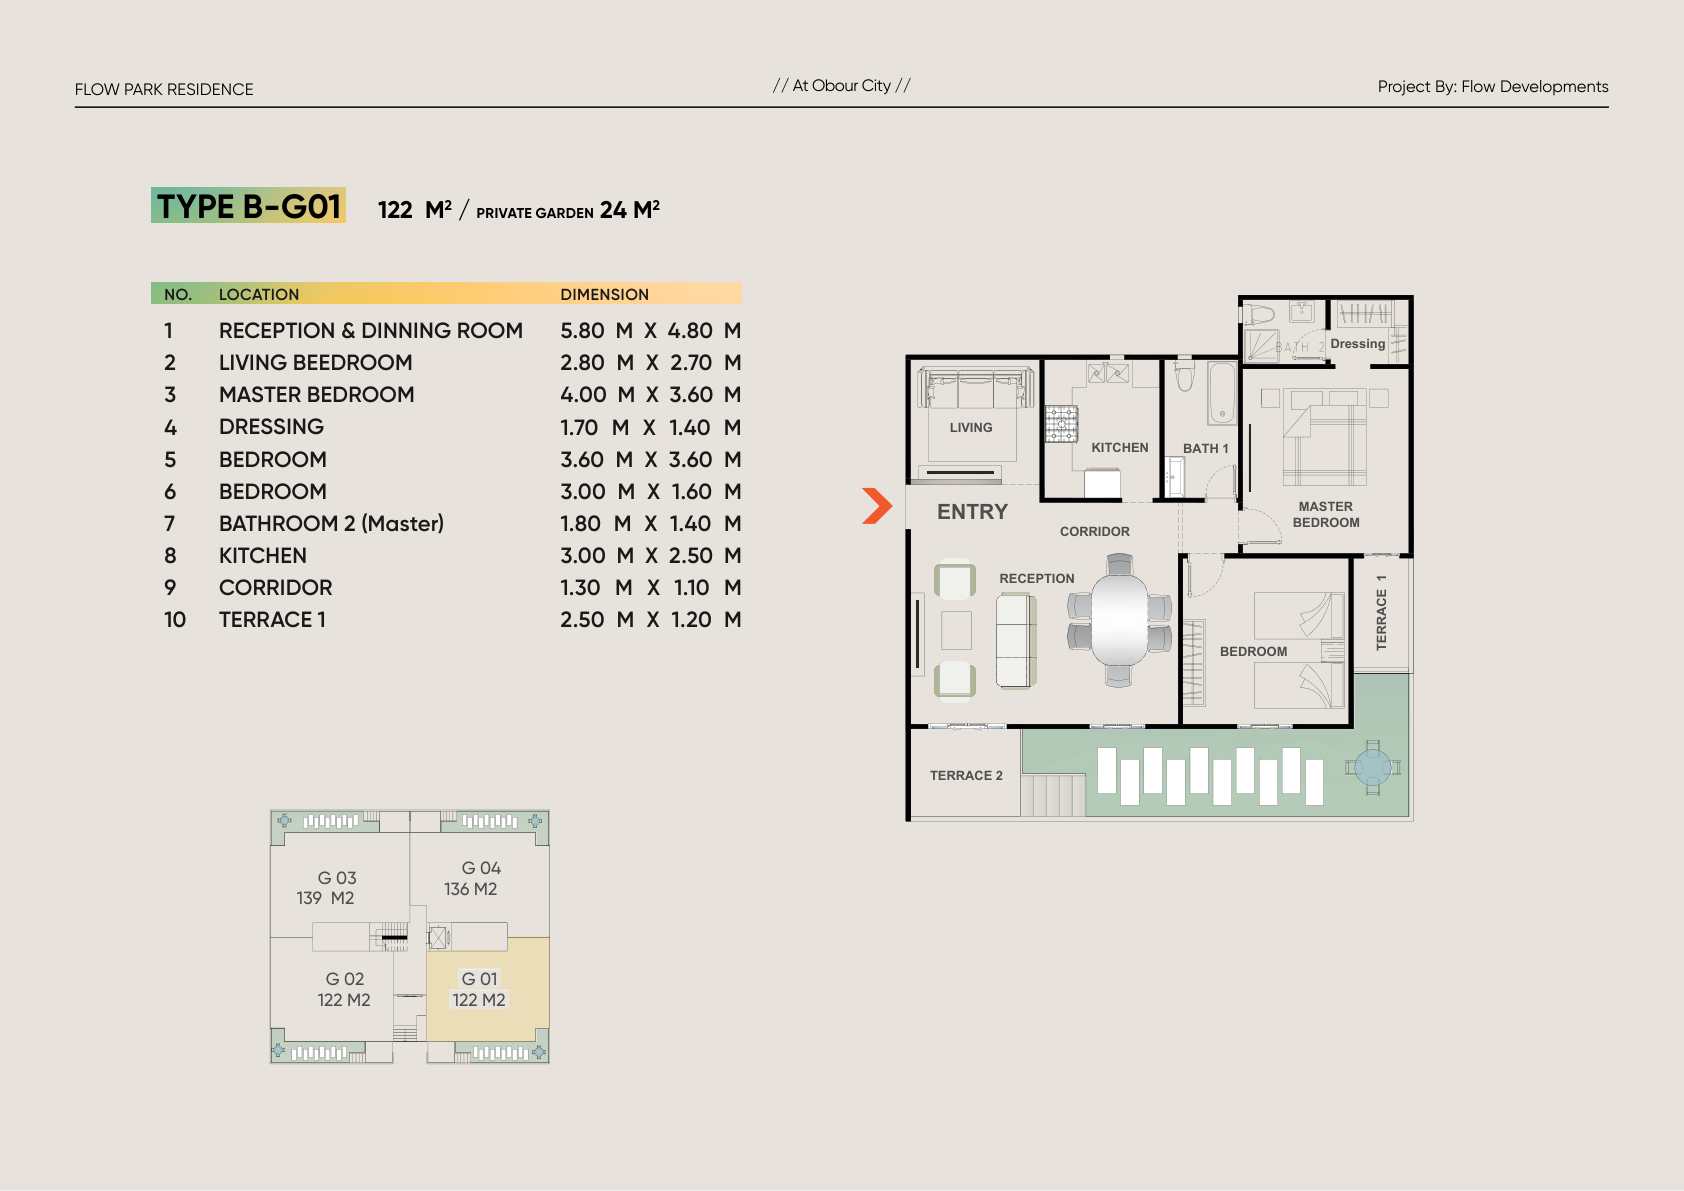
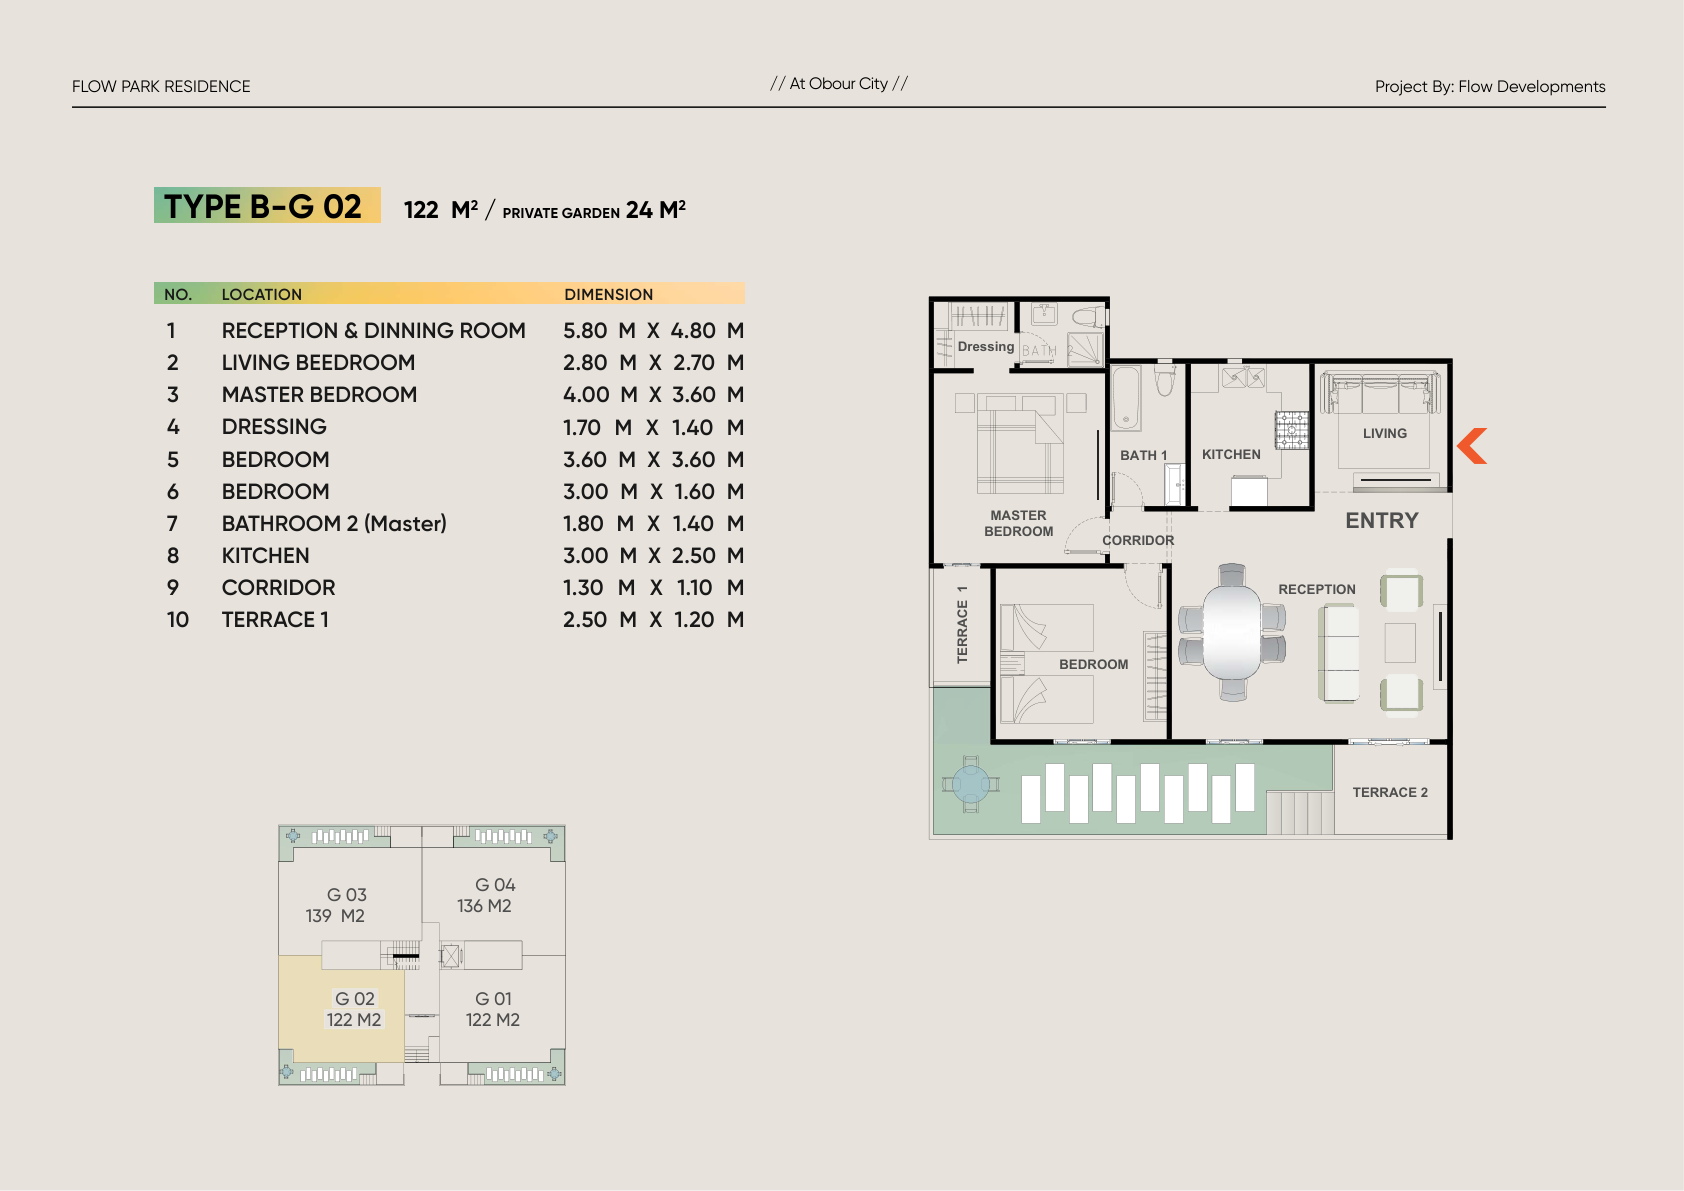
phase 2  units edit

diff --git a/Brochure-3/index.html b/Brochure-3/index.html
@@ -2688,8 +2688,9 @@
         style="display:none;">
     </div>
     <div class="nav-center">
-      <a href="tel:17639" class="nav-hotline"><img src="publication-web-resources/image/flow logos/SVG/shortnmber with email.png"
-          alt="17639" class="nav-hotline-svg"></a>
+      <a href="tel:17639" class="nav-hotline"><img
+          src="publication-web-resources/image/flow logos/SVG/shortnmber with email.png" alt="17639"
+          class="nav-hotline-svg"></a>
       <div class="menu-btn" onclick="toggleMenu()">
         <div class="hamburger">
           <span></span><span></span><span></span>
@@ -3593,7 +3594,7 @@
         "hero": "publication-web-resources/image/plans/TYBE B PHASE 2/hero.png",
         "folder": "TYBE B PHASE 2",
         "categories": {
-          "Ground Floor": ["slide_002.png", "slide_003.png", "slide_004.png", "slide_005.png", "slide_006.png"],
+          "Ground Floor": ["slide_001.png", "slide_002.png", "slide_003.png", "slide_004.png"],
           "Typical Floor": ["slide_007.png", "slide_008.png", "slide_009.png", "slide_010.png"]
         }
       },
